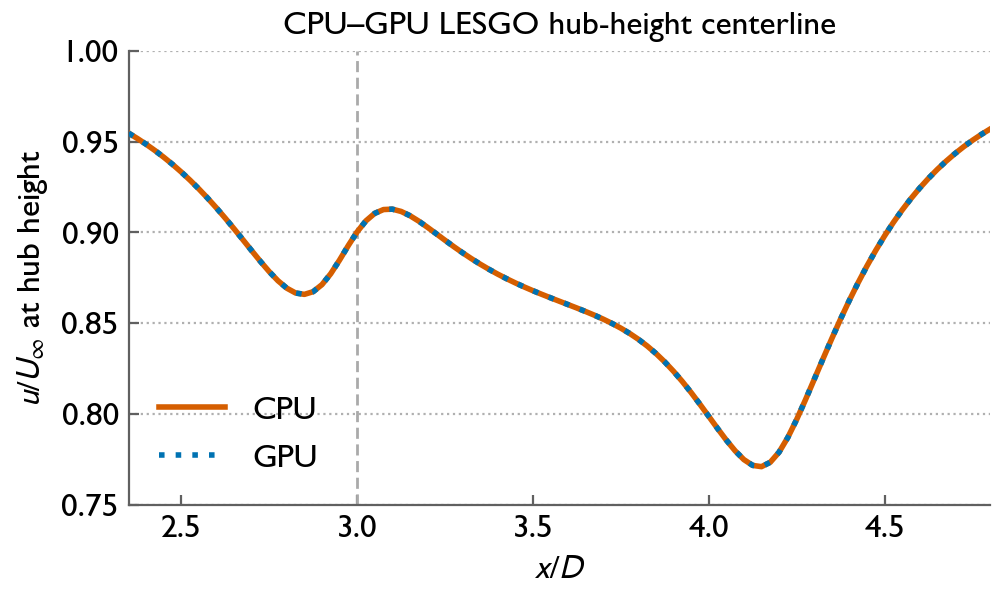
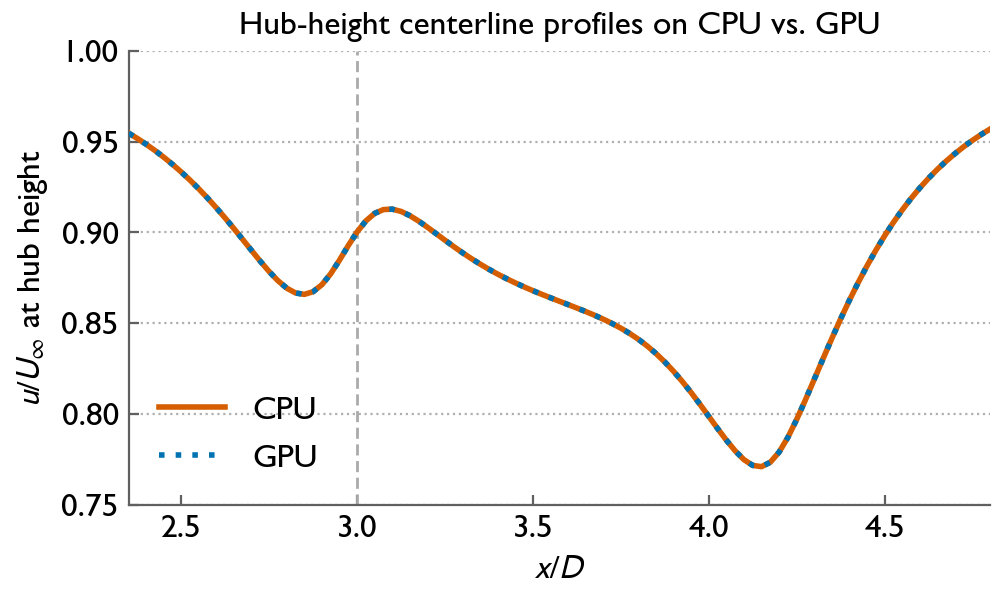
update figs

Changed region(s): [[0.217, 0.0, 0.899, 0.09]]

diff --git a/figs/make_centerline.py b/figs/make_centerline.py
@@ -41,7 +41,7 @@ ax.set_yticks([0.75, 0.80, 0.85, 0.90, 0.95, 1.00])
 ax.set_yticklabels(["0.75", "0.80", "0.85", "0.90", "0.95", "1.00"])
 ax.set_xlabel("$x/D$")
 ax.set_ylabel("$u/U_\\infty$ at hub height")
-ax.set_title("CPU\u2013GPU LESGO hub-height centerline")
+ax.set_title("Hub-height centerline profiles on CPU vs. GPU")
 ax.grid(True, axis="y")
 ax.legend(loc="lower left")
 fig.tight_layout(pad=0.3)
